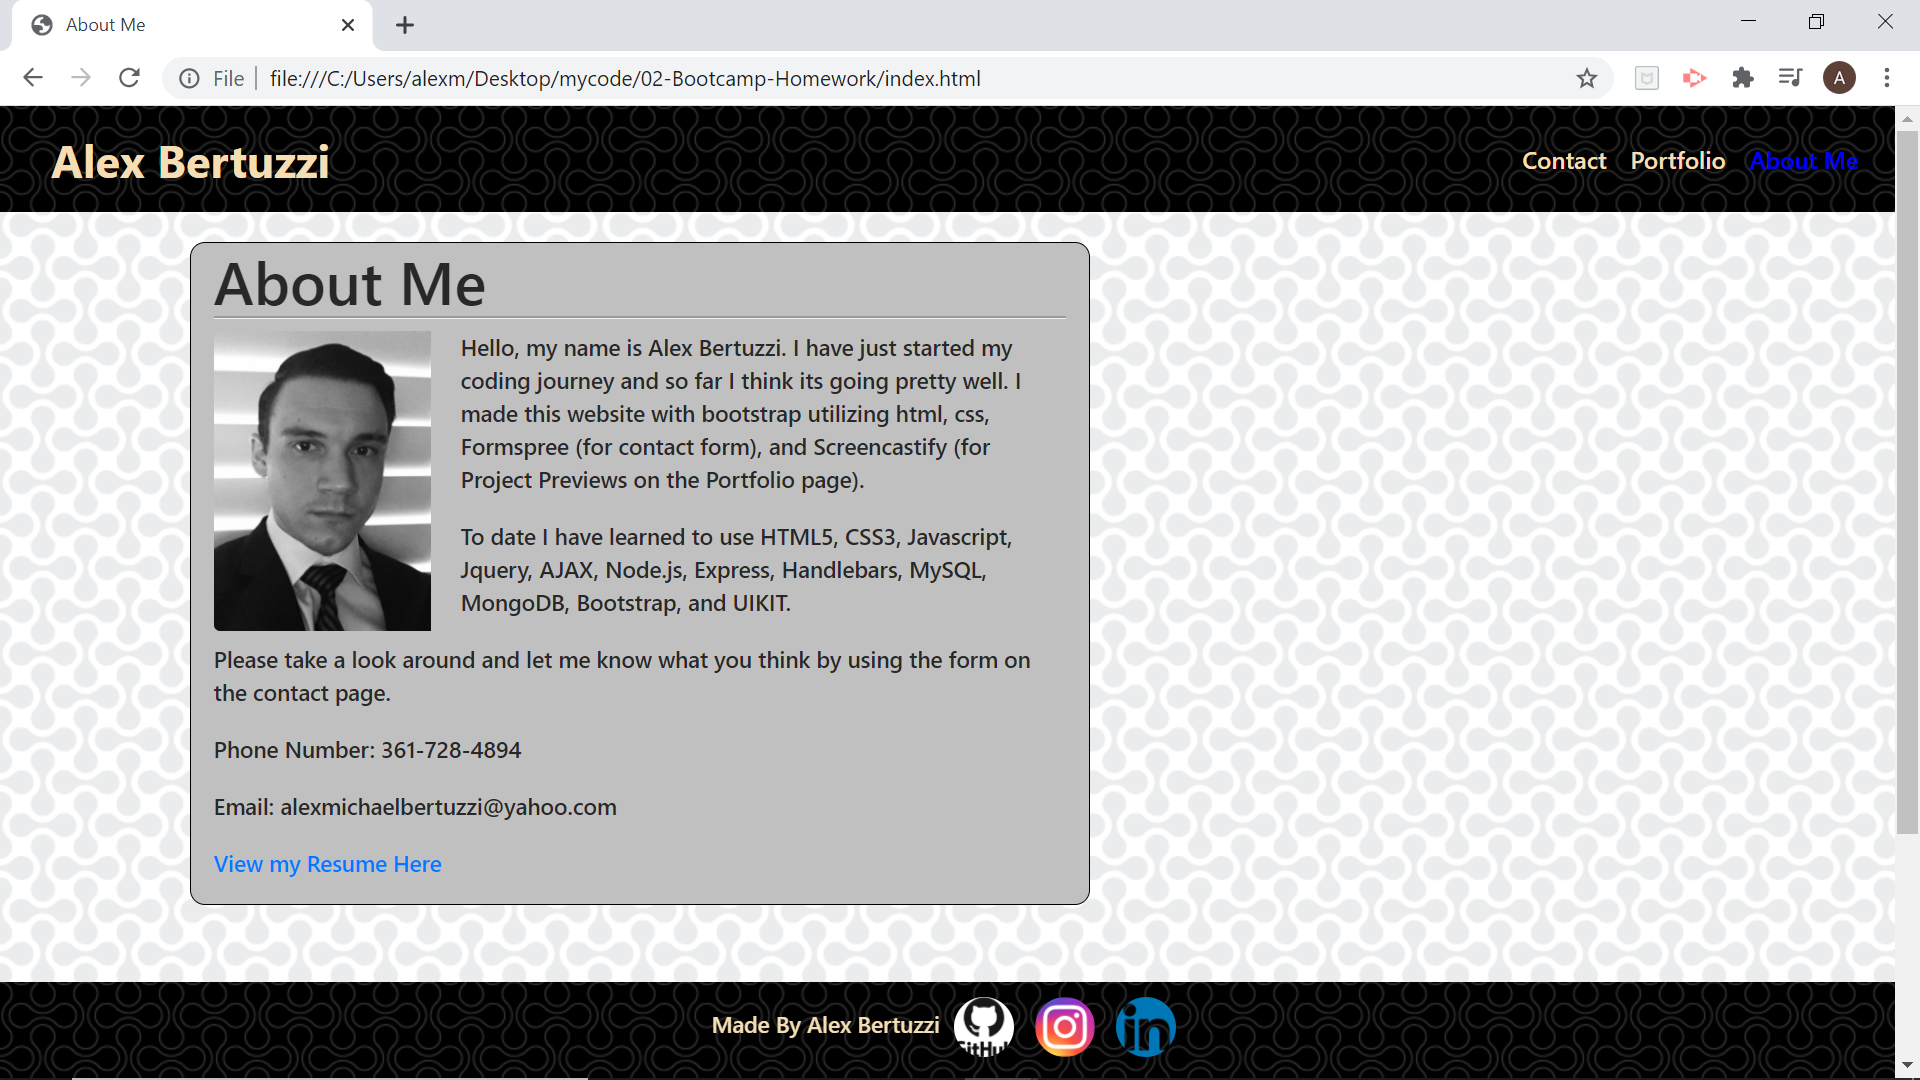
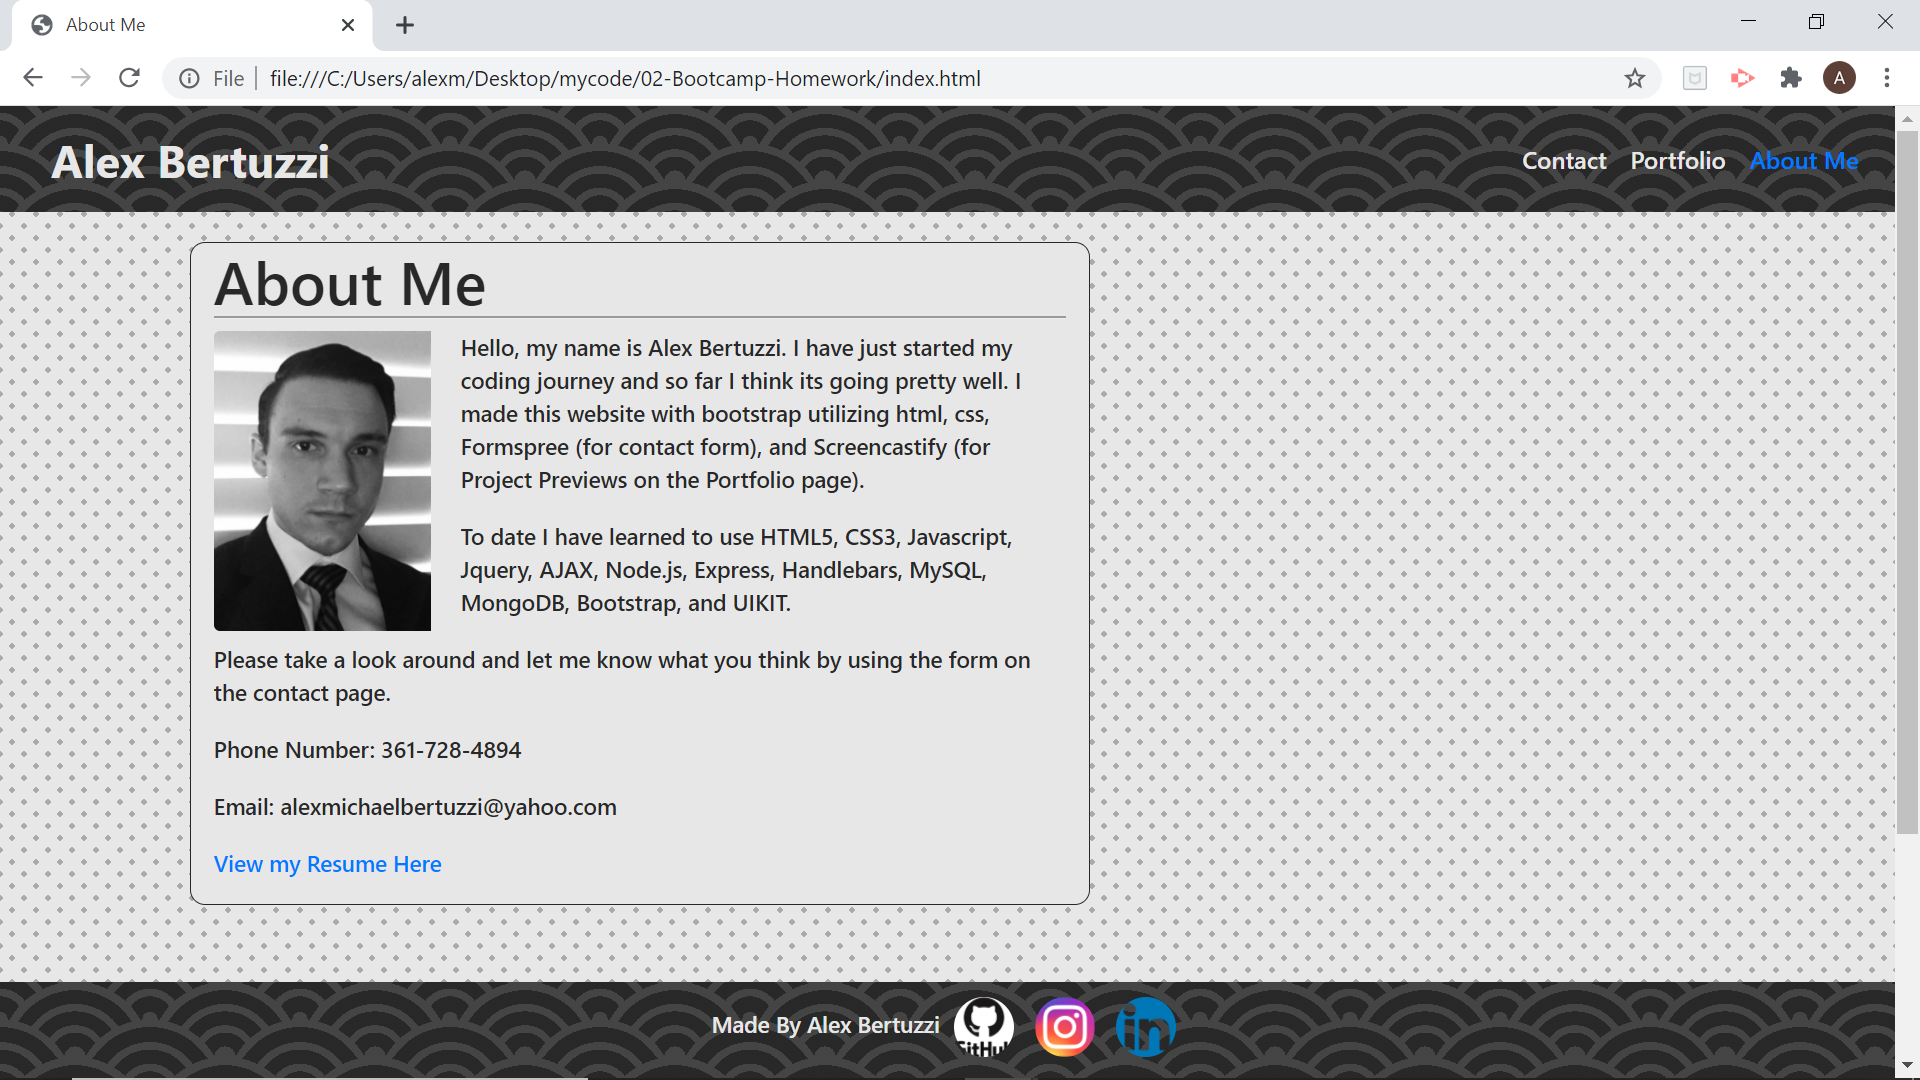
updated portfolio

diff --git a/style.css b/style.css
@@ -1,31 +1,44 @@
 body {
-    background-image: url("assets/double-bubble.png");
+    background:
+    radial-gradient(#aaaaaa 15%, transparent 16%) 0 0,
+    radial-gradient(#aaaaaa 15%, transparent 16%) 8px 8px,
+    radial-gradient(rgba(255,255,255,.1) 15%, transparent 20%) 0 1px,
+    radial-gradient(rgba(255, 255, 255, 0.1) 15%, transparent 20%) 8px 9px;
+    background-color:#e7e7e7;
+    background-size:16px 16px;
 }
 
 /* This section of css modifies the style of the nav bar being utilized across all of the pages. */
 #nav {
-    background-image: url("assets/double-bubble-dark.png");
+    background-color: rgb(40, 40, 40);
+    background-image:
+    radial-gradient(circle at 100% 150%, rgb(40, 40, 40) 24%, #444444 24%, #444444 28%, rgb(40, 40, 40) 28%, rgb(40, 40, 40) 36%, #444444 36%, #444444 40%, transparent 40%, transparent),
+    radial-gradient(circle at 0    150%, rgb(40, 40, 40) 24%, #444444 24%, #444444 28%, rgb(40, 40, 40) 28%, rgb(40, 40, 40) 36%, #444444 36%, #444444 40%, transparent 40%, transparent),
+    radial-gradient(circle at 50%  100%, #444444 10%, rgb(40, 40, 40) 10%, rgb(40, 40, 40) 23%, #444444 23%, #444444 30%, rgb(40, 40, 40) 30%, rgb(40, 40, 40) 43%, #444444 43%, #444444 50%, rgb(40, 40, 40) 50%, rgb(40, 40, 40) 63%, #444444 63%, #444444 71%, transparent 71%, transparent),
+    radial-gradient(circle at 100% 50%, #444444 5%, rgb(40, 40, 40) 5%, rgb(40, 40, 40) 15%, #444444 15%, #444444 20%, rgb(40, 40, 40) 20%, rgb(40, 40, 40) 29%, #444444 29%, #444444 34%, rgb(40, 40, 40) 34%, rgb(40, 40, 40) 44%, #444444 44%, #444444 49%, transparent 49%, transparent),
+    radial-gradient(circle at 0    50%, #444444 5%, rgb(40, 40, 40) 5%, rgb(40, 40, 40) 15%, #444444 15%, #444444 20%, rgb(40, 40, 40) 20%, rgb(40, 40, 40) 29%, #444444 29%, #444444 34%, rgb(40, 40, 40) 34%, rgb(40, 40, 40) 44%, #444444 44%, #444444 49%, transparent 49%, transparent);
+    background-size: 100px 50px;
 }
 
 #button {
-    background-color: wheat;
+    background-color: #e7e7e7;
 }
 
 #nav-brand {
-    color: wheat;
+    color: #e7e7e7;
     font-weight: 700;
     font-size: 30px;
     margin-left: 18px;
 }
 
 #active { 
-    color: blue;
-    font-weight: 500;
+    color: #007bff;
+    font-weight: 600;
 }
 
 #not-active {
-    color: wheat;
-    font-weight: 500;
+    color: #e7e7e7;
+    font-weight: 600;
 }
 
 /* This section of css defines the formatting of the content box across all of the pages. */
@@ -33,9 +46,9 @@ body {
     border-style: solid;
     border-radius: 10px;
     border-width: 1px;
-    border-color: black;
+    border-color: rgb(40, 40, 40);
     box-sizing: border-box;
-    background-color: rgb(192, 192, 192);
+    background-color: #e7e7e7;
     width: 600px;
     margin-left: 10%;
     margin-top: 20px;
@@ -78,7 +91,14 @@ p {
 
 /* The following section of css defines the formatting for the footer section that appears on all pages. */
 footer {
-    background-image: url("assets/double-bubble-dark.png");
+    background-color: rgb(40, 40, 40);
+    background-image:
+    radial-gradient(circle at 100% 150%, rgb(40, 40, 40) 24%, #444444 24%, #444444 28%, rgb(40, 40, 40) 28%, rgb(40, 40, 40) 36%, #444444 36%, #444444 40%, transparent 40%, transparent),
+    radial-gradient(circle at 0    150%, rgb(40, 40, 40) 24%, #444444 24%, #444444 28%, rgb(40, 40, 40) 28%, rgb(40, 40, 40) 36%, #444444 36%, #444444 40%, transparent 40%, transparent),
+    radial-gradient(circle at 50%  100%, #444444 10%, rgb(40, 40, 40) 10%, rgb(40, 40, 40) 23%, #444444 23%, #444444 30%, rgb(40, 40, 40) 30%, rgb(40, 40, 40) 43%, #444444 43%, #444444 50%, rgb(40, 40, 40) 50%, rgb(40, 40, 40) 63%, #444444 63%, #444444 71%, transparent 71%, transparent),
+    radial-gradient(circle at 100% 50%, #444444 5%, rgb(40, 40, 40) 5%, rgb(40, 40, 40) 15%, #444444 15%, #444444 20%, rgb(40, 40, 40) 20%, rgb(40, 40, 40) 29%, #444444 29%, #444444 34%, rgb(40, 40, 40) 34%, rgb(40, 40, 40) 44%, #444444 44%, #444444 49%, transparent 49%, transparent),
+    radial-gradient(circle at 0    50%, #444444 5%, rgb(40, 40, 40) 5%, rgb(40, 40, 40) 15%, #444444 15%, #444444 20%, rgb(40, 40, 40) 20%, rgb(40, 40, 40) 29%, #444444 29%, #444444 34%, rgb(40, 40, 40) 34%, rgb(40, 40, 40) 44%, #444444 44%, #444444 49%, transparent 49%, transparent);
+    background-size: 100px 50px;
     padding-bottom: 1px;
     padding-top: 5px;
     position: sticky;
@@ -86,8 +106,8 @@ footer {
 }
 
 h3 {
-    color: wheat;
-    font-weight: 500;
+    color: #e7e7e7;
+    font-weight: 600;
     font-size: 15px;
     text-align: center;
 }
